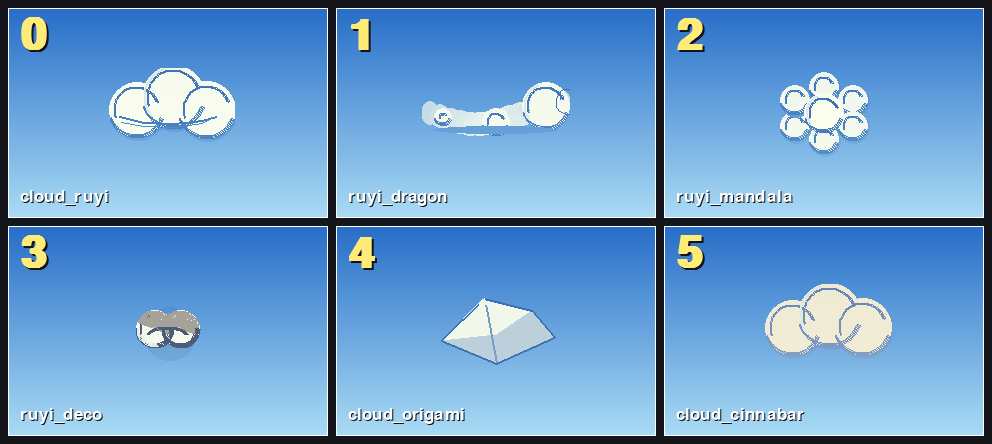
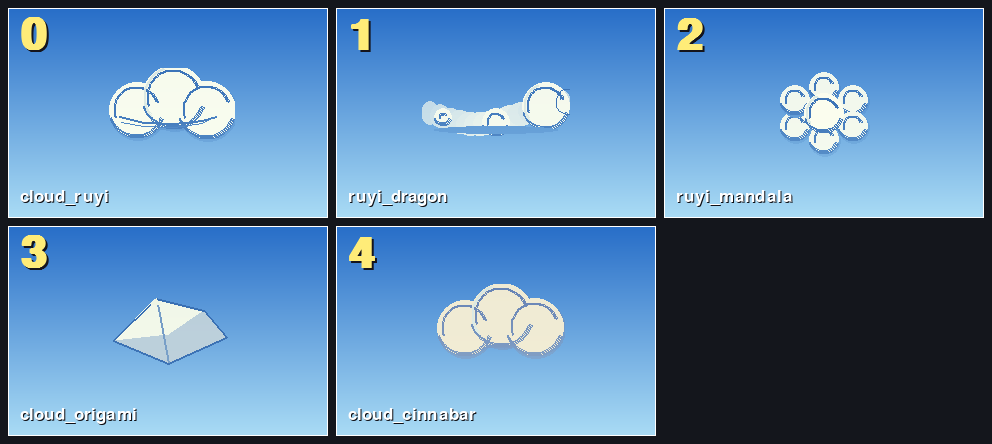
Clouds: retire variant #3 (ruyi_deco) from the rotation
User asked to remove cloud design #3. Cloud variants are picked per-run via
random.randrange(VARIANT_COUNT) and dispatched through _VARIANTS[idx % COUNT];
no variant id is persisted or logged, so pulling one and letting the rest
renumber is safe. Removed draw_ruyi_deco from _VARIANTS (COUNT 6->5); the
function stays defined for easy restore. Updated the draw_cloud slot docstring
and the numbered design sheet (now 0..4).

Verified: VARIANT_COUNT==5, deco no longer in rotation, all 5 render, 19 tests
pass.

diff --git a/game/cloud_variants.py b/game/cloud_variants.py
@@ -838,7 +838,10 @@ def draw_cloud_cinnabar(surf, x, y, palette, scale=1.0):
                     lit_override=lit,
                     ink_recipe=_INK_SOFT_FADE)
 
-# Slot order is permanent: scenes/intro assign each depth slot a fixed variant id.
+# Active rotation. Each run picks one variant at random (scenes/intro use
+# random.randrange(VARIANT_COUNT)); nothing persists a variant id, so retiring one
+# and letting the rest renumber is safe. draw_ruyi_deco is kept defined but pulled
+# from the rotation (retired by user request).
 _VARIANTS = (draw_cloud_ruyi, draw_ruyi_dragon, draw_ruyi_mandala,
-             draw_ruyi_deco, draw_cloud_origami, draw_cloud_cinnabar)
+             draw_cloud_origami, draw_cloud_cinnabar)
 VARIANT_COUNT = len(_VARIANTS)

diff --git a/game/draw.py b/game/draw.py
@@ -252,7 +252,7 @@ from game import cloud_variants
 
 def draw_cloud(surf, x, y, scale=1.0, variant: int = 0, palette=None):
     """Dispatch to one of the palette-aware shan-shui cloud variants (slots
-    0..5 in `cloud_variants._VARIANTS`). `palette` lets each cloud retint with
+    0..VARIANT_COUNT-1 in `cloud_variants._VARIANTS`). `palette` lets each cloud retint with
     the biome cycle; callers with no palette in scope (offline tools) fall back
     to the day palette so they keep rendering."""
     if palette is None:
